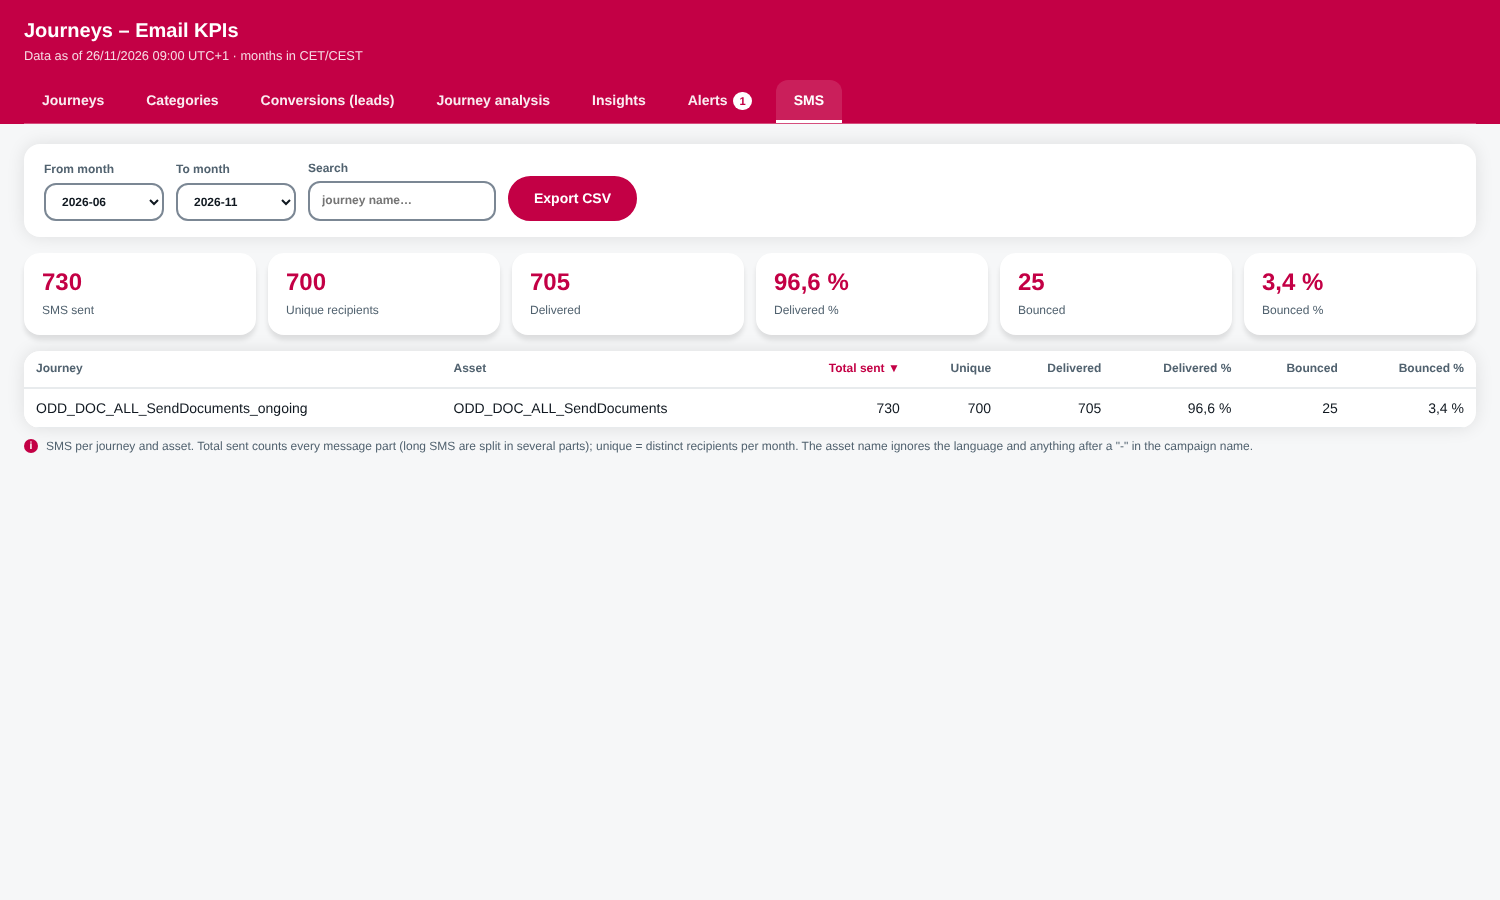
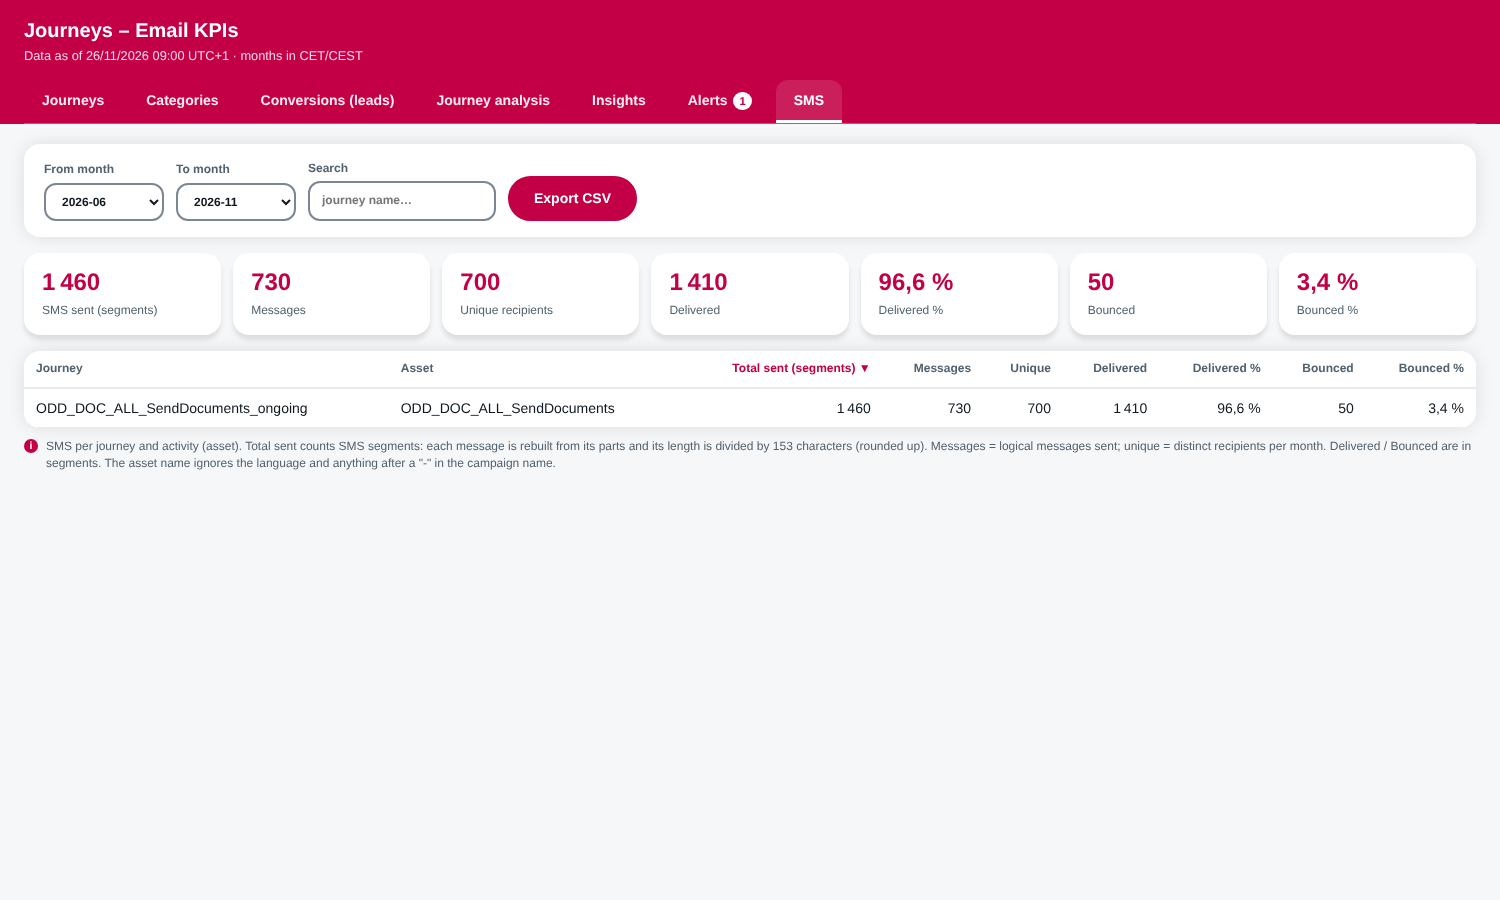
SMS: rebuild messages from parts and count segments (user's reporting logic), add Messages column
Claude-Session: https://claude.ai/code/session_01WtzjzeTDomDiWbenzCQNQG

diff --git a/cloudpage_dashboard.html b/cloudpage_dashboard.html
@@ -703,17 +703,17 @@ function viewSms(){
   for (const r of D.sms){
     if (!inMonths(r.Month) || (S.q && !String(r.JourneyName).toLowerCase().includes(S.q.toLowerCase()))) continue;
     const asset = parseEmail(r.AssetName).label, key = r.JourneyName+'|'+asset; let a = m.get(key);
-    if(!a){ a={name:r.JourneyName,asset,Sent:0,Uniq:0,Deliv:0,Bnc:0}; m.set(key,a); }
-    a.Sent+=r.Sent; a.Uniq+=r.UniqueRecipients; a.Deliv+=r.Delivered; a.Bnc+=r.Bounced;
+    if(!a){ a={name:r.JourneyName,asset,Sent:0,Msg:0,Uniq:0,Deliv:0,Bnc:0}; m.set(key,a); }
+    a.Sent+=r.Sent; a.Msg+=(r.Messages||0); a.Uniq+=r.UniqueRecipients; a.Deliv+=r.Delivered; a.Bnc+=r.Bounced;
   }
-  const rows=[...m.values()], tot=rows.reduce((t,a)=>({Sent:t.Sent+a.Sent,Uniq:t.Uniq+a.Uniq,Deliv:t.Deliv+a.Deliv,Bnc:t.Bnc+a.Bnc}),{Sent:0,Uniq:0,Deliv:0,Bnc:0});
-  cards('smsCards', [[n(tot.Sent),'SMS sent'],[n(tot.Uniq),'Unique recipients'],[n(tot.Deliv),'Delivered'],[pct(tot.Deliv,tot.Sent),'Delivered %'],[n(tot.Bnc),'Bounced'],[pct(tot.Bnc,tot.Sent),'Bounced %']]);
+  const rows=[...m.values()], tot=rows.reduce((t,a)=>({Sent:t.Sent+a.Sent,Msg:t.Msg+a.Msg,Uniq:t.Uniq+a.Uniq,Deliv:t.Deliv+a.Deliv,Bnc:t.Bnc+a.Bnc}),{Sent:0,Msg:0,Uniq:0,Deliv:0,Bnc:0});
+  cards('smsCards', [[n(tot.Sent),'SMS sent (segments)'],[n(tot.Msg),'Messages'],[n(tot.Uniq),'Unique recipients'],[n(tot.Deliv),'Delivered'],[pct(tot.Deliv,tot.Sent),'Delivered %'],[n(tot.Bnc),'Bounced'],[pct(tot.Bnc,tot.Sent),'Bounced %']]);
   const keyCols=[{k:'name',l:'Journey',v:a=>a.name.toLowerCase(),f:a=>esc(a.name)},{k:'asset',l:'Asset',v:a=>a.asset.toLowerCase(),f:a=>esc(a.asset)}];
-  const cols=[{k:'Sent',l:'Total sent',v:a=>a.Sent,f:a=>n(a.Sent)},{k:'Uniq',l:'Unique',v:a=>a.Uniq,f:a=>n(a.Uniq)},
+  const cols=[{k:'Sent',l:'Total sent (segments)',v:a=>a.Sent,f:a=>n(a.Sent)},{k:'Msg',l:'Messages',v:a=>a.Msg,f:a=>n(a.Msg)},{k:'Uniq',l:'Unique',v:a=>a.Uniq,f:a=>n(a.Uniq)},
               {k:'Deliv',l:'Delivered',v:a=>a.Deliv,f:a=>n(a.Deliv)},{k:'rDel',l:'Delivered %',v:a=>a.Sent?a.Deliv/a.Sent:-1,f:a=>pct(a.Deliv,a.Sent)},
               {k:'Bnc',l:'Bounced',v:a=>a.Bnc,f:a=>n(a.Bnc)},{k:'rBnc',l:'Bounced %',v:a=>a.Sent?a.Bnc/a.Sent:-1,f:a=>pct(a.Bnc,a.Sent)}];
   renderTable('tSms', keyCols, cols, rows, rows.length>1?tot:null, {defK:'Sent', empty:'No SMS data yet (DASH_SMS_Monthly).'});
-  $('smsNote').textContent = "SMS per journey and asset. Total sent counts every message part (long SMS are split in several parts); unique = distinct recipients per month. The asset name ignores the language and anything after a \"-\" in the campaign name.";
+  $('smsNote').textContent = "SMS per journey and activity (asset). Total sent counts SMS segments: each message is rebuilt from its parts and its length is divided by 153 characters (rounded up). Messages = logical messages sent; unique = distinct recipients per month. Delivered / Bounced are in segments. The asset name ignores the language and anything after a \"-\" in the campaign name.";
 }
 
 /* ---------- affichage ---------- */

diff --git a/cloudpage_api.html b/cloudpage_api.html
@@ -138,7 +138,7 @@ try {
     var links = optional("DASH_Link_Monthly", ["JourneyName","Month","EmailName","LinkName","LinkContent","UniqueClicks","TotalClicks"], ["UniqueClicks","TotalClicks"], "DASH_Link_Monthly");
     Write(Stringify({ part: "links", links: links, warnings: warnings }));
   } else if (part === "sms") {
-    var sms = optional("DASH_SMS_Monthly", ["JourneyName","Month","AssetName","Sent","UniqueRecipients","Delivered","Bounced"], ["Sent","UniqueRecipients","Delivered","Bounced"], "DASH_SMS_Monthly");
+    var sms = optional("DASH_SMS_Monthly", ["JourneyName","Month","AssetName","Sent","Messages","UniqueRecipients","Delivered","Bounced"], ["Sent","Messages","UniqueRecipients","Delivered","Bounced"], "DASH_SMS_Monthly");
     Write(Stringify({ part: "sms", sms: sms, warnings: warnings }));
   } else {
     var kpi = fetchAll("DASH_Journey_KPI_Monthly",

diff --git a/sql/NOTES.md b/sql/NOTES.md
@@ -67,9 +67,10 @@ Pour 04 (conversions), découper par date de création du lead : changer `Create
 - `_Sent.Domain` (insights domaines), `_Job.EmailName` (activités), `_Click.LinkName` / `LinkContent` (liens), `HASHBYTES` (clé de DASH_Link_Monthly).
 
 ## SMS (13 et 14)
-- Source : `_SMSMessageTracking` (colonnes vérifiées sur la documentation de Mateusz Dabrowski). Journey = `JBDefinitionID` joint à `_Journey.JourneyID` (une seule ligne par JourneyID : le nom le plus récent par ordre alphabétique est gardé).
-- Asset = colonne `Name` (message MobileConnect ou activité de journey).
-- Une ligne de la data view = une partie de SMS (colonne `Ordinal`) : **Sent compte donc toutes les parties** ; **UniqueRecipients** = numéros distincts (`Mobile`) par journey, mois et asset ; **Delivered** = `Delivered = 1` ; **Bounced** = `Undelivered = 1`.
-- Messages sortants uniquement (`Outbound = 1`), tests exclus. Date = `CreateDateTime` (supposée en CST), mois en CET.
-- Journeys MKT_ et Oxx_ : les SMS d autres journeys (par exemple OKM_ et ODD_DOC_ aujourd hui) sont pris automatiquement.
-- Limite : les destinataires uniques sont distincts par mois ; sur plusieurs mois, le dashboard additionne les mois (un numéro présent deux mois compte deux fois).
+Basées sur votre requête de reporting (quarterly) et adaptées au rythme mensuel :
+- Source : `_SMSMessageTracking`. Un SMS long est stocké en plusieurs lignes (une par partie, colonne `Ordinal`) : le message est reconstitué avec `STRING_AGG(MessageText) WITHIN GROUP (ORDER BY Ordinal)`, puis **SMSCount = CEILING(longueur / 153)** (segments d un SMS concaténé).
+- Un message = un abonné (`SubscriberKey`) + une activité (`JBActivityID`) + une date de création (`CreateDateTime`), comme dans votre requête.
+- Activité : `JBActivityID = _JourneyActivity.ActivityID` ; le nom de la journey vient de `_Journey` (version la plus récente de l activité, pour éviter les doublons entre versions). Asset = `ActivityName`.
+- **Sent** = somme des segments ; **Messages** = nombre de messages ; **UniqueRecipients** = abonnés distincts par journey, mois et asset ; **Delivered** / **Bounced** = segments des messages `Delivered = 1` / `Undelivered = 1`. Tests exclus.
+- Mois en CET (la date est supposée en CST). Journeys MKT_ et Oxx_ uniquement, donc OKM_ et ODD_DOC_ aujourd hui.
+- Limites : 153 caractères par segment vaut pour l alphabet GSM ; avec des caractères hors GSM (certains accents, emojis) un segment ne contient que 67 caractères, donc le total est sous-estimé. Les destinataires uniques sont distincts par mois ; sur plusieurs mois le dashboard les additionne.

diff --git a/README.md b/README.md
@@ -11,7 +11,7 @@ Les DE gardent l'historique au-delà des ~6 mois de rétention des Data Views.
 | DASH_Email_KPI_Monthly | **JourneyName** Text(200), **Month** Text(7), **EmailName** Text(200), Sends, Bounces, Opens, UniqueClicks, Unsubscribes, Complaints (Number) |
 | DASH_Link_Monthly | **RowKey** Text(32), JourneyName Text(200), Month Text(7), EmailName Text(200), LinkName Text(300), LinkContent Text(300), UniqueClicks, TotalClicks (Number) |
 | DASH_Domain_Monthly | **Domain** Text(100), **Month** Text(7), Sends, Bounces, Complaints (Number) |
-| DASH_SMS_Monthly | **JourneyName** Text(200), **Month** Text(7), **AssetName** Text(200), Sent, UniqueRecipients, Delivered, Bounced (Number) |
+| DASH_SMS_Monthly | **JourneyName** Text(200), **Month** Text(7), **AssetName** Text(200), Sent, **Messages**, UniqueRecipients, Delivered, Bounced (Number) |
 | DASH_Config | **ConfigKey** Text(50), Value Text(200) → voir « Token d'accès » ci-dessous |
 | DASH_IP_Allowlist | **IPAddress** Text(50), Description Text(200) → une ligne par IP (`203.0.113.7`) ou plage IPv4 CIDR (`203.0.113.0/24`) ; IPv6 en correspondance exacte |
 
